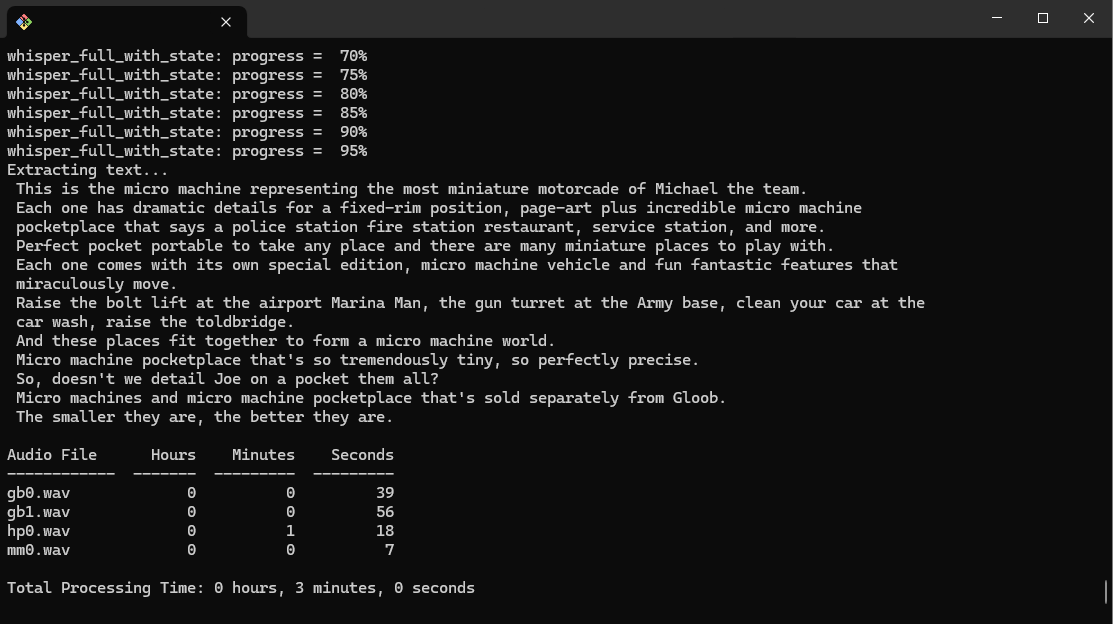
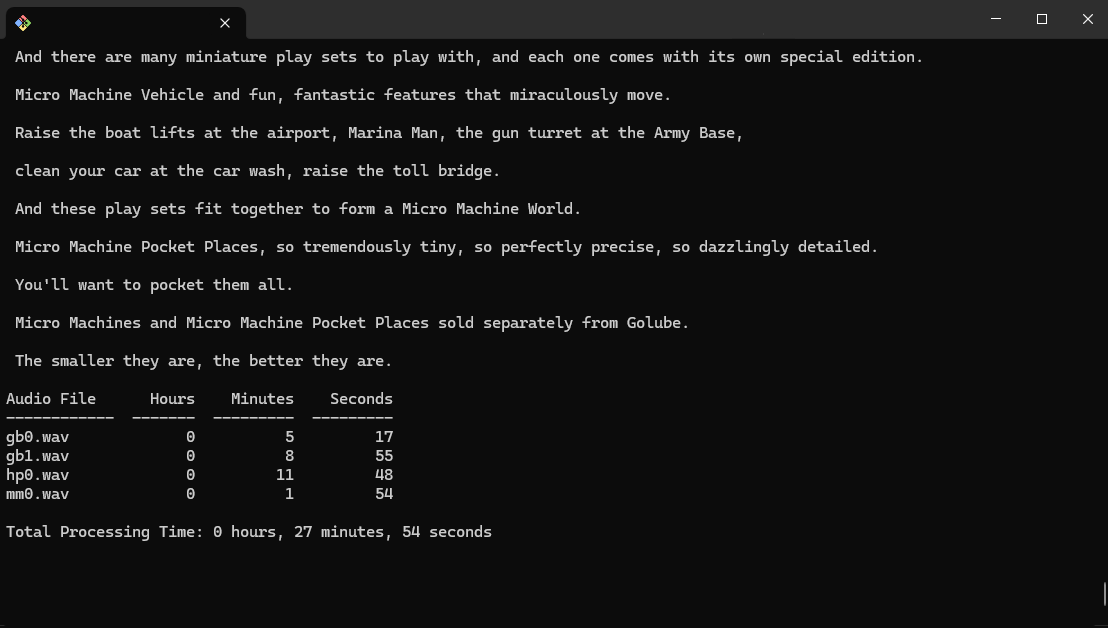
Update Project

diff --git a/batch_audio_transcriber.py b/batch_audio_transcriber.py
@@ -3,7 +3,7 @@ import time
 from whispercpp import Whisper
 from tabulate import tabulate
 
-w = Whisper("tiny")  # Options: "tiny", "small", "base", "medium", "large"
+w = Whisper("small")  # Options: "tiny", "small", "base", "medium", "large"
 
 # Directory containing audio files for testing
 audio_folder = "./audios_for_testing"
@@ -51,7 +51,8 @@ print()
 print(tabulate(results, headers=["Audio File", "Hours", "Minutes", "Seconds"]))
 
 # Calculate total processing time
-total_processing_time_seconds = sum(file[1] * 3600 + file[2] * 60 + file[3] for file in results)
+total_processing_time_seconds = sum(
+    file[1] * 3600 + file[2] * 60 + file[3] for file in results)
 total_hours = int(total_processing_time_seconds // 3600)
 total_minutes = int((total_processing_time_seconds % 3600) // 60)
 total_seconds = int(total_processing_time_seconds % 60)

diff --git a/endpoint/transcription_endpoint.py b/endpoint/transcription_endpoint.py
@@ -22,7 +22,7 @@ app.add_middleware(
 @app.post("/transcribe_audio/")
 async def transcribe_audio(file: UploadFile = File(...)):
     # Initialize Whisper model
-    w = Whisper("tiny")  # Options: "tiny", "small", "base", "medium", "large"
+    w = Whisper("small")  # Options: "tiny", "small", "base", "medium", "large"
     # Create a temporary directory to store the uploaded audio file
     temp_dir = "temp"
     os.makedirs(temp_dir, exist_ok=True)

diff --git a/audio_transcriber.py b/audio_transcriber.py
@@ -1,7 +1,7 @@
 import time
 from whispercpp import Whisper
 
-w = Whisper("tiny") # Options: "tiny", "small", "base", "medium", "large"
+w = Whisper("small")  # Options: "tiny", "small", "base", "medium", "large"
 
 # Record start time
 start_time = time.time()

diff --git a/README.md b/README.md
@@ -1,6 +1,6 @@
 # 🤖 Whisper Text Transcription
 
-This Python script utilizes [whisper-cpp](https://github.com/ggerganov/whisper.cpp/) package, which is a custom inference implementation of OpenAI's Whisper model used for transcribing WAV audio files to text. [OpenAI's Whisper model](https://github.com/openai/whisper) is an advanced implementation of Automatic Speech Recognition (ASR). It employs modern deep learning techniques to accurately transcribe human speech into text. Whisper has been trained on a large amount of high-quality audio data, enabling it to recognize a wide range of dialects and accents. Its accuracy and speed make it ideal for real-time transcription applications.
+This Python script utilizes [whisper-cpp](https://github.com/ggerganov/whisper.cpp/) package, which is a custom inference implementation of OpenAI's `small` Whisper model used for transcribing WAV audio files to text. [OpenAI's Whisper model](https://github.com/openai/whisper) is an advanced implementation of Automatic Speech Recognition (ASR). It employs modern deep learning techniques to accurately transcribe human speech into text. Whisper has been trained on a large amount of high-quality audio data, enabling it to recognize a wide range of dialects and accents. Its accuracy and speed make it ideal for real-time transcription applications.
 
 ## 🛠Prerequisites
 
@@ -128,9 +128,11 @@ This will start the FastAPI application, and you can access the endpoint at `htt
 
 | Audio File | Hours | Minutes | Seconds |
 | ---------- | ----- | ------- | ------- |
-| gb0.wav    | 0     | 0       | 7       |
-| gb1.wav    | 0     | 0       | 9       |
-| hp0.wav    | 0     | 0       | 13      |
-| mm0.wav    | 0     | 0       | 1       |
+| gb0.wav    | 0     | 0       | 49      |
+| gb1.wav    | 0     | 1       | 12      |
+| hp0.wav    | 0     | 1       | 36      |
+| mm0.wav    | 0     | 0       | 18      |
+
+**Total Processing Time: 3 minutes, 55 seconds**
 
 <img src="./imgs/docker_results_inside_container.png"/>
